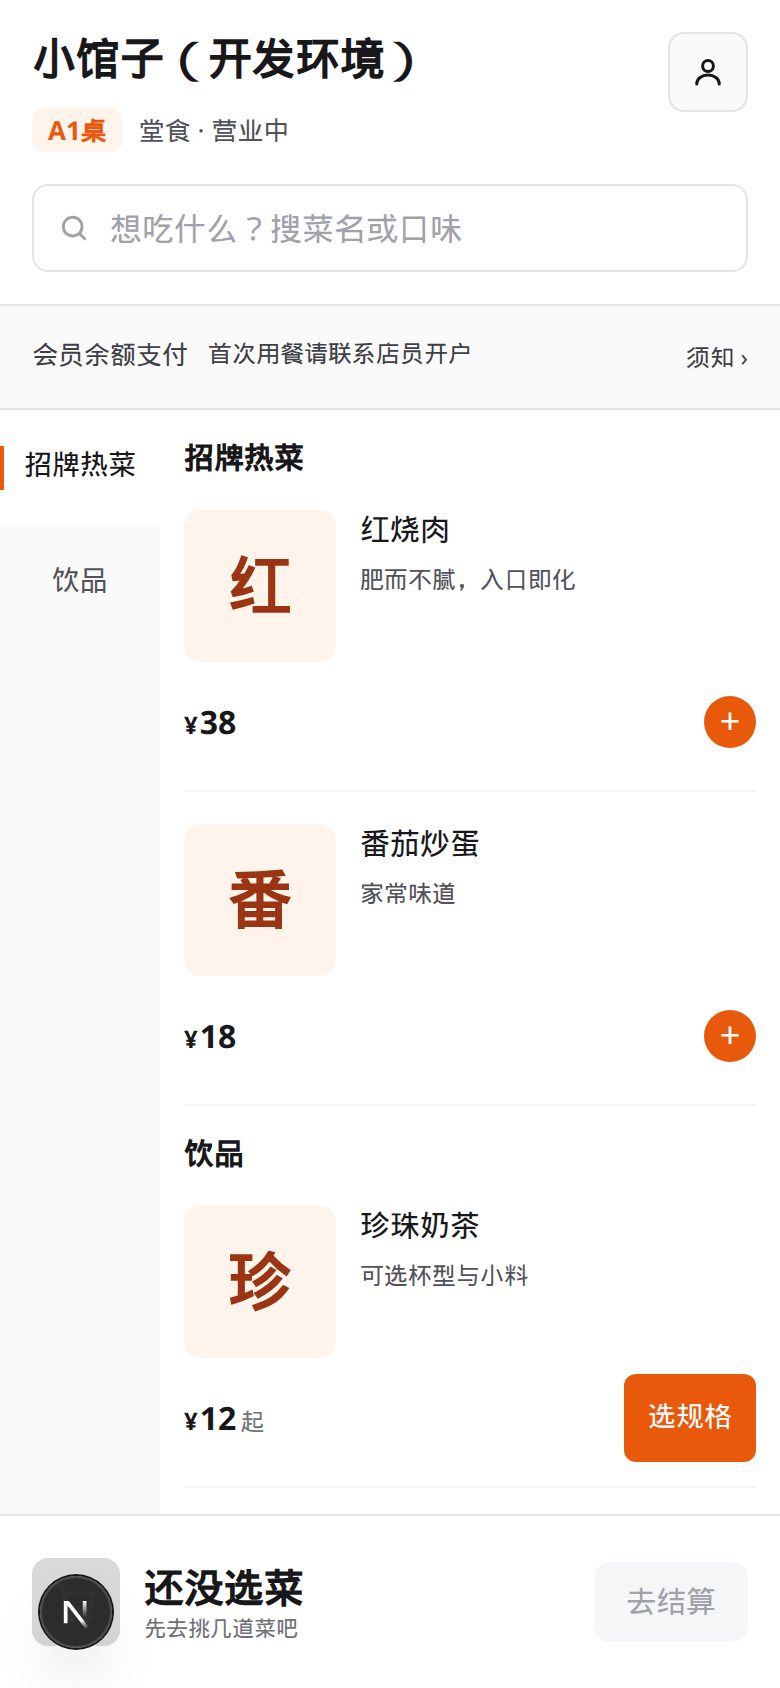
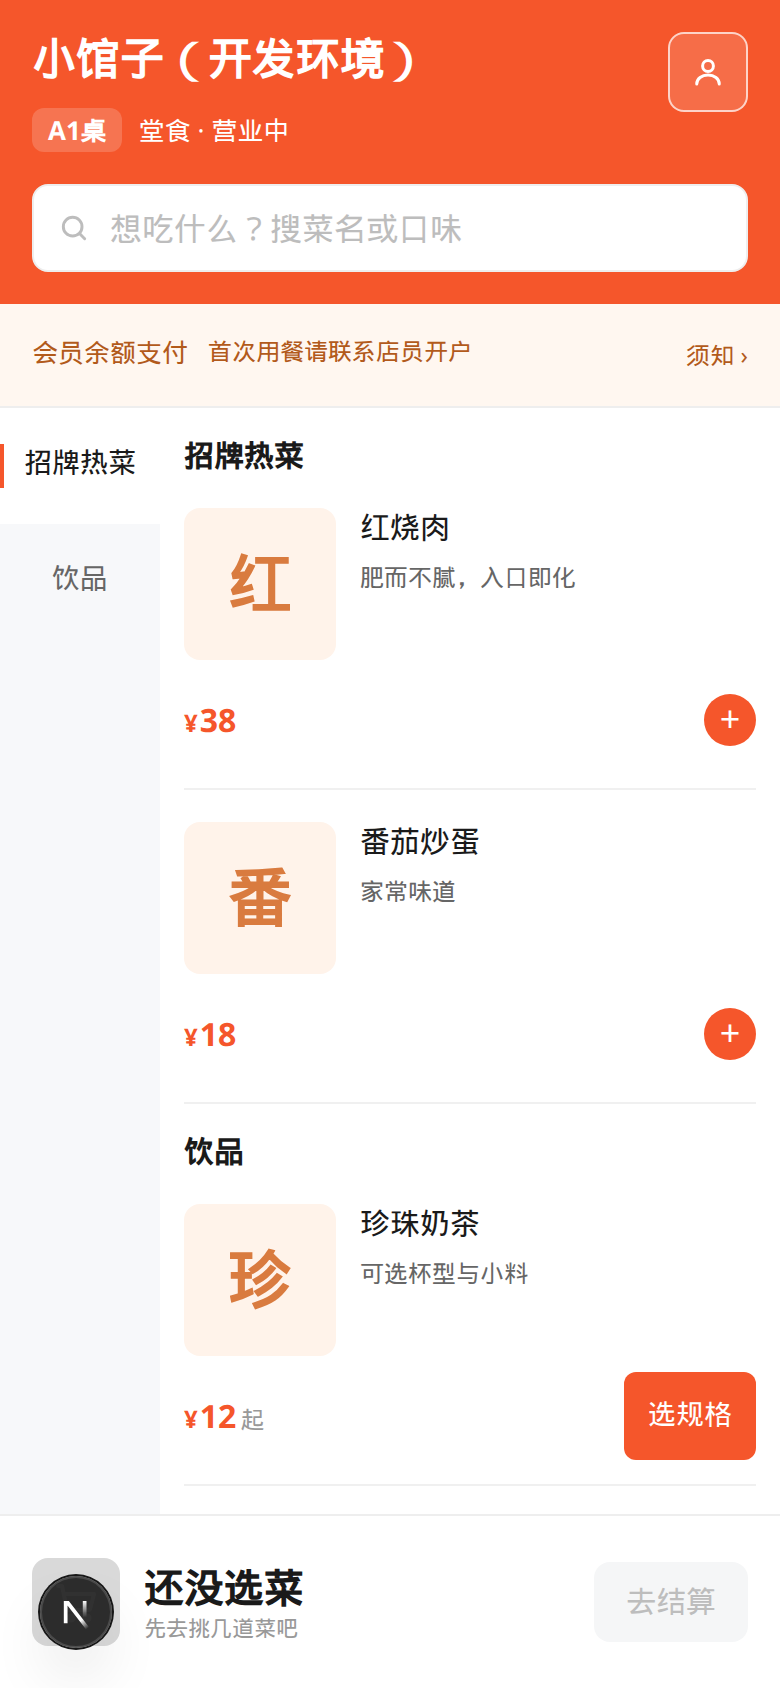
style: 恢复原主题色

diff --git a/customer-web/app/globals.css b/customer-web/app/globals.css
@@ -4,33 +4,32 @@
  * 不要再直接覆盖 antd-mobile 的外观；antd-mobile 只用于行为类组件（弹层、下拉刷新等）。
  */
 :root {
-  /* 单一强调色，与商家后台同一橙；状态色只用于结果，不铺大面积 */
-  --brand: #e8590c;
-  --brand-pressed: #c2410c;
-  --adm-color-primary: #e8590c;
-  --brand-wash: #fff4ec;
-  --brand-wash-2: #fff7f2;
-  --brand-strip: #fafafa;
-  --brand-strip-ink: #3f3f46;
-  --tile-ink: #9a3412;
-  /* 文字：12px 说明不低于 zinc-500，避免笔画发虚 */
-  --ink: #18181b;
-  --ink-2: #3f3f46;
-  --ink-3: #52525b;
-  --ink-4: #71717a;
-  --ink-5: #a1a1aa;
-  --line: #e4e4e7;
-  --line-2: #f4f4f5;
-  --line-3: #f4f4f5;
-  --border: #d4d4d8;
-  --border-2: #e4e4e7;
+  /* 品牌色恢复为改版前的实测值；圆角和字重仍用收紧后的阶梯 */
+  --brand: #f5562b;
+  --brand-pressed: #dc4a23;
+  --adm-color-primary: #f5562b;
+  --brand-wash: #fff3ea;
+  --brand-wash-2: #fff1e8;
+  --brand-strip: #fff7f0;
+  --brand-strip-ink: #b25a1b;
+  --tile-ink: #d97b3f;
+  --ink: #1a1a1a;
+  --ink-2: #333;
+  --ink-3: #666;
+  --ink-4: #999;
+  --ink-5: #bdbdbd;
+  --line: #eee;
+  --line-2: #f0f0f0;
+  --line-3: #f5f5f5;
+  --border: #d9d9d9;
+  --border-2: #e5e5e5;
   --surface: #fff;
-  --page: #fafafa;
-  --warn: #b45309;  --warn-bg: #fff7ed;
-  --info: #3f3f46;  --info-bg: #f4f4f5;
-  --ok: #3f6212;    --ok-bg: #f7fee7;
-  --danger: #b91c1c; --danger-bg: #fef2f2;
-  --badge: #e8590c;
+  --page: #f7f8fa;
+  --warn: #ff9500;  --warn-bg: #fff4e5;
+  --info: #1677ff;  --info-bg: #e8f1ff;
+  --ok: #2ba94f;    --ok-bg: #e9f7ee;
+  --danger: #f5222d; --danger-bg: #fdecea;
+  --badge: #ff3b30;
   --r-card: 12px;
   --r-field: 8px;
   --r-tile: 8px;
@@ -42,7 +41,7 @@
   --font: -apple-system, BlinkMacSystemFont, "PingFang SC", "Helvetica Neue", "Segoe UI", sans-serif;
 }
 * { box-sizing: border-box; }
-html, body { margin: 0; min-height: 100%; background: var(--page); color: var(--ink); }
+html, body { margin: 0; min-height: 100%; background: #e9ebef; color: var(--ink); }
 body { font-family: var(--font); -webkit-font-smoothing: antialiased; font-variant-numeric: tabular-nums; }
 button, input, textarea { font: inherit; color: inherit; }
 button { cursor: pointer; touch-action: manipulation; }
@@ -85,7 +84,7 @@ h1, h2, h3 { margin: 0; font-weight: 700; }
 .t-cap { font-size: 12px; color: var(--ink-4); }
 .t-faint { font-size: 12px; color: var(--ink-5); }
 .t-mini { font-size: 11px; color: var(--ink-4); }
-.t-price { color: var(--ink); font-size: 16px; font-weight: 600; font-variant-numeric: tabular-nums; }
+.t-price { color: var(--brand); font-size: 16px; font-weight: 600; font-variant-numeric: tabular-nums; }
 .t-price .yen { margin-right: 1px; font-size: 12px; }
 .t-price .suffix { margin-left: 2px; color: var(--ink-4); font-size: 12px; font-weight: 400; }
 .center { text-align: center; }
@@ -153,7 +152,7 @@ h1, h2, h3 { margin: 0; font-weight: 700; }
 .bottom-bar .grow { flex: 1; min-width: 0; }
 .bar-total { min-width: 0; }
 .bar-total .label { display: block; color: var(--ink-4); font-size: 12px; }
-.bar-total .value { display: block; overflow: hidden; text-overflow: ellipsis; white-space: nowrap; color: var(--ink); font-size: 20px; font-weight: 600; line-height: 1.3; font-variant-numeric: tabular-nums; }
+.bar-total .value { display: block; overflow: hidden; text-overflow: ellipsis; white-space: nowrap; color: var(--brand); font-size: 20px; font-weight: 600; line-height: 1.3; font-variant-numeric: tabular-nums; }
 .bar-hint { color: var(--ink-4); font-size: 12px; text-align: center; }
 .bar-hint .link { padding: 0; border: 0; background: none; color: var(--ink-4); font-size: 12px; text-decoration: underline; }
 
@@ -205,19 +204,19 @@ h1, h2, h3 { margin: 0; font-weight: 700; }
 .notice { margin: 0 0 12px; padding: 10px 12px; border-radius: 10px; background: var(--danger-bg); color: var(--danger); font-size: 13px; }
 
 /* 轻提示：居中黑色胶囊 */
-.toast { position: fixed; z-index: 2100; left: 50%; top: 50%; transform: translate(-50%,-50%); display: flex; align-items: center; min-height: 40px; max-width: 84vw; padding: 8px 14px; border: 0; border-radius: 8px; background: #18181b; color: #fff; font-size: 14px; animation: fade .12s ease-out; }
+.toast { position: fixed; z-index: 2100; left: 50%; top: 50%; transform: translate(-50%,-50%); display: flex; align-items: center; min-height: 40px; max-width: 84vw; padding: 8px 14px; border: 0; border-radius: 8px; background: #000; color: #fff; font-size: 14px; animation: fade .12s ease-out; }
 
 /* ---------- 菜单页 ---------- */
 .menu { height: 100vh; height: 100dvh; display: flex; flex-direction: column; padding-bottom: calc(87px + var(--safe-bottom)); overflow: hidden; background: #fff; }
-.menu-hero { flex: none; padding: calc(16px + var(--safe-top)) 16px 16px; background: #fff; color: var(--ink); border-bottom: 1px solid var(--line); }
+.menu-hero { flex: none; padding: calc(16px + var(--safe-top)) 16px 16px; background: var(--brand); color: #fff; }
 .menu-hero-row { display: flex; align-items: flex-start; justify-content: space-between; gap: 12px; }
 .menu-hero-row > div:first-child { min-width: 0; }
 .menu-store { display: -webkit-box; -webkit-line-clamp: 2; -webkit-box-orient: vertical; overflow: hidden; font-size: 22px; font-weight: 600; line-height: 1.25; }
-.menu-table { display: flex; align-items: center; gap: 8px; margin-top: 10px; min-width: 0; font-size: 13px; color: var(--ink-3); }
+.menu-table { display: flex; align-items: center; gap: 8px; margin-top: 10px; min-width: 0; font-size: 13px; color: #fff; }
 .menu-table > span { overflow: hidden; text-overflow: ellipsis; white-space: nowrap; }
-.menu-table-badge { padding: 2px 8px; border-radius: 6px; background: var(--brand-wash); color: var(--brand); font-weight: 600; font-variant-numeric: tabular-nums; }
-.menu-avatar { flex: none; display: grid; place-items: center; width: 40px; height: 40px; border: 1px solid var(--line); border-radius: 8px; background: var(--page); color: var(--ink); }
-.menu-avatar:active { background: var(--line-2); }
+.menu-table-badge { padding: 2px 8px; border-radius: 6px; background: rgba(255,255,255,.18); color: #fff; font-weight: 600; font-variant-numeric: tabular-nums; }
+.menu-avatar { flex: none; display: grid; place-items: center; width: 40px; height: 40px; border: 1px solid rgba(255,255,255,.7); border-radius: 8px; background: rgba(255,255,255,.14); color: #fff; }
+.menu-avatar:active { background: rgba(255,255,255,.26); }
 .menu-hero .search-field { margin-top: 16px; }
 .menu-body { flex: 1; min-height: 0; display: grid; grid-template-columns: 80px minmax(0,1fr); }
 .cats { overflow-y: auto; background: var(--page); -webkit-overflow-scrolling: touch; }
@@ -298,7 +297,7 @@ h1, h2, h3 { margin: 0; font-weight: 700; }
 /* ---------- 订单列表 ---------- */
 .order-tabs { position: sticky; top: calc(56px + var(--safe-top)); z-index: 20; display: flex; gap: 10px; padding: 12px var(--gutter); background: var(--page); }
 .order-tab { height: 34px; padding: 0 12px; border: 1px solid var(--line); border-radius: 6px; background: #fff; color: var(--ink-3); font-size: 14px; }
-.order-tab.on { background: var(--brand-wash); border-color: var(--brand); color: var(--ink); font-weight: 600; }
+.order-tab.on { background: var(--brand); border-color: var(--brand); color: #fff; font-weight: 600; }
 .order-card { margin-bottom: 12px; padding: var(--pad); border-radius: var(--r-card); background: #fff; }
 .order-top { display: flex; align-items: center; justify-content: space-between; gap: 12px; padding-bottom: 14px; border-bottom: 1px solid var(--line-2); }
 .order-items { display: -webkit-box; -webkit-line-clamp: 2; -webkit-box-orient: vertical; overflow: hidden; margin: 14px 0 10px; color: var(--ink-2); font-size: 14px; line-height: 1.5; word-break: break-word; }
@@ -328,7 +327,7 @@ h1, h2, h3 { margin: 0; font-weight: 700; }
 .cashier .meta .no, .no { display: block; color: var(--ink-3); font-family: ui-monospace, SFMono-Regular, Menlo, Consolas, monospace; font-size: 12px; font-variant-numeric: tabular-nums; letter-spacing: 0; }
 .cashier .meta .left { display: block; margin-top: 8px; color: var(--brand); }
 .pay-row { display: flex; align-items: center; gap: 12px; }
-.pay-icon { display: grid; place-items: center; width: 36px; height: 36px; border-radius: 8px; background: var(--brand-wash); color: var(--brand); font-size: 15px; font-weight: 600; }
+.pay-icon { display: grid; place-items: center; width: 36px; height: 36px; border-radius: 8px; background: var(--brand); color: #fff; font-size: 15px; font-weight: 600; }
 .pay-main { flex: 1; min-width: 0; }
 .pay-main .name { font-size: 15px; font-weight: 500; }
 .pay-main .sub { margin-top: 4px; font-size: 12px; color: var(--ink-4); }
@@ -364,7 +363,7 @@ h1, h2, h3 { margin: 0; font-weight: 700; }
 
 /* ---------- 支付成功 ---------- */
 .result { min-height: 100vh; min-height: 100dvh; display: flex; flex-direction: column; align-items: center; padding: calc(86px + var(--safe-top)) 24px calc(40px + var(--safe-bottom)); background: #fff; text-align: center; }
-.result-mark { display: grid; place-items: center; width: 56px; height: 56px; border: 1px solid var(--line); border-radius: 12px; background: var(--page); color: var(--ink); }
+.result-mark { display: grid; place-items: center; width: 56px; height: 56px; border-radius: 12px; background: var(--brand); color: #fff; }
 .result h1 { margin-top: 28px; font-size: 22px; }
 .result .amount { margin-top: 8px; color: var(--brand); font-size: 34px; font-weight: 700; }
 .result .meta { margin-top: 10px; color: var(--ink-4); font-size: 13px; line-height: 1.85; }
@@ -374,7 +373,7 @@ h1, h2, h3 { margin: 0; font-weight: 700; }
 /* ---------- 登录 ---------- */
 /* padding 而不是 mark 的 margin：外边距会从容器里溢出，露出页面底色 */
 .login { min-height: 100vh; min-height: 100dvh; padding: calc(56px + var(--safe-top)) 24px calc(40px + var(--safe-bottom)); background: #fff; text-align: center; }
-.login-mark { width: 40px; height: 40px; margin: 0 auto 8px; border: 1px solid var(--line); border-radius: 8px; background: var(--page); display: grid; place-items: center; color: var(--ink); font-size: 18px; font-weight: 600; }
+.login-mark { width: 40px; height: 40px; margin: 0 auto 8px; border-radius: 8px; background: var(--brand); display: grid; place-items: center; color: #fff; font-size: 18px; font-weight: 600; }
 .login h1 { margin-top: 22px; font-size: 22px; }
 .login .sub { margin-top: 8px; color: var(--ink-4); font-size: 13px; }
 .login-form { margin-top: 32px; display: flex; flex-direction: column; gap: 12px; text-align: left; }

diff --git a/merchant-web/src/theme.ts b/merchant-web/src/theme.ts
@@ -1,19 +1,19 @@
 import { theme as antdTheme, type ThemeConfig } from 'antd'
 
 /**
- * 商家端令牌：单一强调色（国际橙），中性灰白底，8 / 12 / 6 圆角阶梯。
- * 只改 token，不改组件结构。状态色只用于成功 / 警告 / 错误，不拿来做装饰。
+ * 商家端令牌：火焰橙主色、暖灰表面，沿用界面收紧后的圆角和轻阴影。
+ * 只改颜色，不改组件结构。
  */
 export const BRAND_PRIMARY = '#E8590C'
-/** 浅色侧栏与页面同属一个中性面，靠 1px 分割线区分 */
-export const SIDER_BG = '#FFFFFF'
+/** 侧栏深色底（深浅主题共用） */
+export const SIDER_BG = '#211913'
 
 const shared: ThemeConfig['token'] = {
   colorPrimary: BRAND_PRIMARY,
-  colorInfo: '#52525B',
-  colorSuccess: '#3F6212',
-  colorWarning: '#B45309',
-  colorError: '#B91C1C',
+  colorInfo: '#2563EB',
+  colorSuccess: '#16A34A',
+  colorWarning: '#D97706',
+  colorError: '#DC2626',
   colorLink: BRAND_PRIMARY,
   borderRadius: 8,
   borderRadiusLG: 12,
@@ -27,15 +27,16 @@ const shared: ThemeConfig['token'] = {
 
 const lightToken: ThemeConfig['token'] = {
   ...shared,
-  colorText: '#18181B',
-  colorTextSecondary: '#52525B',
-  colorTextTertiary: '#71717A',
-  colorTextQuaternary: '#A1A1AA',
-  colorBorder: '#E4E4E7',
-  colorBorderSecondary: '#E4E4E7',
-  colorSplit: '#F4F4F5',
-  colorBgLayout: '#FAFAFA',
-  colorFillAlter: '#FAFAFA',
+  colorText: '#292524',
+  colorTextSecondary: '#78716C',
+  colorTextTertiary: '#A8A29E',
+  // 占位符 / 禁用文字：比设计稿的 #D6CFC7 深一档，保证白底上可读
+  colorTextQuaternary: '#BDB5AC',
+  colorBorder: '#E7E2DC',
+  colorBorderSecondary: '#EFE9E1',
+  colorSplit: '#EFE9E1',
+  colorBgLayout: '#F6F4F1',
+  colorFillAlter: '#F6F4F1',
 }
 
 const buttonComponent: NonNullable<ThemeConfig['components']>['Button'] = {
@@ -44,15 +45,16 @@ const buttonComponent: NonNullable<ThemeConfig['components']>['Button'] = {
 const cardComponent: NonNullable<ThemeConfig['components']>['Card'] = { borderRadiusLG: 12 }
 const modalComponent: NonNullable<ThemeConfig['components']>['Modal'] = { borderRadiusLG: 12 }
 
-/** 侧栏：白底、1px 选中，不铺满橙色块 */
+/** 侧栏：深色底 + 橙色选中。圆角仍用收紧后的 6px，不恢复胶囊。 */
 const siderComponents: ThemeConfig['components'] = {
-  Layout: { siderBg: SIDER_BG, triggerBg: SIDER_BG, headerBg: '#FFFFFF', bodyBg: '#FAFAFA' },
+  Layout: { siderBg: SIDER_BG, triggerBg: SIDER_BG, headerBg: '#FFFFFF', bodyBg: '#F6F4F1' },
   Menu: {
-    itemBg: SIDER_BG,
-    itemSelectedBg: '#FFF4EC',
-    itemSelectedColor: BRAND_PRIMARY,
-    itemColor: '#3F3F46',
-    itemHoverColor: '#18181B',
+    darkItemBg: SIDER_BG,
+    darkSubMenuItemBg: SIDER_BG,
+    darkItemSelectedBg: BRAND_PRIMARY,
+    darkItemSelectedColor: '#FFFFFF',
+    darkItemColor: 'rgba(255,255,255,0.68)',
+    darkItemHoverColor: '#FFFFFF',
     itemBorderRadius: 6,
     itemMarginInline: 8,
     itemHeight: 36,
@@ -60,36 +62,17 @@ const siderComponents: ThemeConfig['components'] = {
   Card: cardComponent,
   Modal: modalComponent,
   Button: buttonComponent,
-  Table: { headerBg: '#FAFAFA', headerColor: '#71717A', headerSplitColor: 'transparent', rowHoverBg: '#FAFAFA' },
-  Segmented: { itemSelectedBg: '#18181B', itemSelectedColor: '#FFFFFF', borderRadius: 6, borderRadiusSM: 6, trackPadding: 2 },
-}
-
-const darkSider: ThemeConfig['components'] = {
-  Layout: { siderBg: '#09090B', triggerBg: '#09090B' },
-  Menu: {
-    darkItemBg: '#09090B',
-    darkSubMenuItemBg: '#09090B',
-    darkItemSelectedBg: 'rgba(232,89,12,0.18)',
-    darkItemSelectedColor: '#FDBA74',
-    darkItemColor: 'rgba(255,255,255,0.72)',
-    darkItemHoverColor: '#FFFFFF',
-    itemBorderRadius: 6,
-    itemMarginInline: 8,
-    itemHeight: 36,
-  },
+  Table: { headerBg: '#FFFFFF', headerColor: '#A8A29E', headerSplitColor: 'transparent', rowHoverBg: '#FDF6F0' },
+  Segmented: { itemSelectedBg: '#292524', itemSelectedColor: '#FFFFFF', borderRadius: 6, borderRadiusSM: 6, trackPadding: 2 },
 }
 
 export function buildTheme(isDark: boolean): ThemeConfig {
   if (isDark) {
     return {
       algorithm: antdTheme.darkAlgorithm,
-      token: { ...shared, colorBgBase: '#09090B' },
+      token: shared,
       components: {
         ...siderComponents,
-        ...darkSider,
-        Button: buttonComponent,
-        Card: cardComponent,
-        Modal: modalComponent,
         Table: { headerSplitColor: 'transparent' },
         Segmented: { itemSelectedBg: BRAND_PRIMARY, itemSelectedColor: '#FFFFFF', borderRadius: 6, borderRadiusSM: 6, trackPadding: 2 },
       },

diff --git a/merchant-web/src/layouts/MainLayout.tsx b/merchant-web/src/layouts/MainLayout.tsx
@@ -18,7 +18,6 @@ import {
   WalletOutlined,
 } from '@ant-design/icons'
 import { useAuthStore } from '../store/auth'
-import { useThemeStore } from '../store/theme'
 import UserMenu from '../components/UserMenu'
 import BrandLogo from '../components/BrandLogo'
 import ThemeToggle from '../components/ThemeToggle'
@@ -64,7 +63,6 @@ export default function MainLayout() {
   // 平板和小屏桌面自动折叠为图标栏，为后厨三列和数据表保留内容宽度。
   const [collapsed, setCollapsed] = useState(false)
   const { token } = antdTheme.useToken()
-  const isDark = useThemeStore((s) => s.isDark)
   // 全局新订单轮询（提示音 + 菜单角标）
   const { counts, retry } = useOrderPoll()
   const addMessage = useNotificationStore((s) => s.add)
@@ -295,20 +293,20 @@ export default function MainLayout() {
     <Layout style={{ minHeight: '100vh' }}>
       {/* 侧栏固定在视口内（sticky），菜单过长时侧栏自身滚动；右侧内容随页面滚动 */}
       <Layout.Sider
-        theme={isDark ? 'dark' : 'light'}
+        theme="dark"
         width={220}
         breakpoint="xl"
         collapsedWidth={64}
         onCollapse={setCollapsed}
-        style={{ position: 'sticky', top: 0, height: '100vh', overflow: 'auto', zIndex: 11, borderInlineEnd: `1px solid ${token.colorSplit}` }}
+        style={{ position: 'sticky', top: 0, height: '100vh', overflow: 'auto', zIndex: 11 }}
       >
         <div
           style={{ height: 64, display: 'flex', alignItems: 'center', justifyContent: collapsed ? 'center' : 'flex-start', paddingInline: collapsed ? 0 : 20, cursor: 'pointer' }}
           onClick={() => navigate('/')}
         >
-          <BrandLogo size={28} showName={!collapsed} showSubtitle inverted={isDark} />
+          <BrandLogo size={28} showName={!collapsed} showSubtitle inverted />
         </div>
-        {menu(isDark)}
+        {menu(true)}
       </Layout.Sider>
       <Layout>
         <Layout.Header style={{ background: token.colorBgContainer, display: 'flex', justifyContent: 'space-between', alignItems: 'center', gap: 16, paddingInline: 24, boxShadow: `0 1px 0 ${token.colorSplit}`, position: 'sticky', top: 0, zIndex: 10 }}>

diff --git a/merchant-web/src/components/DailyBarChart.tsx b/merchant-web/src/components/DailyBarChart.tsx
@@ -38,7 +38,7 @@ export default function DailyBarChart({ data, height = 180, width = 640, label =
       <svg viewBox={`0 0 ${width} ${height}`} width="100%" height={height} role="img" aria-label={label}>
         {ticks.map((t) => (
           <g key={t}>
-            <line x1={padL} x2={width - padR} y1={y(t)} y2={y(t)} stroke="#E4E4E7" strokeDasharray="3 3" />
+            <line x1={padL} x2={width - padR} y1={y(t)} y2={y(t)} stroke={token.colorSplit} strokeDasharray="3 3" />
             <text x={padL - 8} y={y(t) + 4} textAnchor="end" fontSize={11} fill={token.colorTextTertiary} style={{ fontVariantNumeric: 'tabular-nums' }}>¥{(t / 100).toFixed(0)}</text>
           </g>
         ))}
@@ -55,7 +55,7 @@ export default function DailyBarChart({ data, height = 180, width = 640, label =
               {h > 0 && (
                 <path
                   d={`M${cx - barW / 2},${padT + plotH} V${top + r} Q${cx - barW / 2},${top} ${cx - barW / 2 + r},${top} H${cx + barW / 2 - r} Q${cx + barW / 2},${top} ${cx + barW / 2},${top + r} V${padT + plotH} Z`}
-                  fill={active ? token.colorPrimary : '#FDBA74'}
+                  fill={active ? token.colorPrimaryActive : token.colorPrimary}
                 />
               )}
               {(i === maxIdx && d.netIncome > 0) && !active && (
